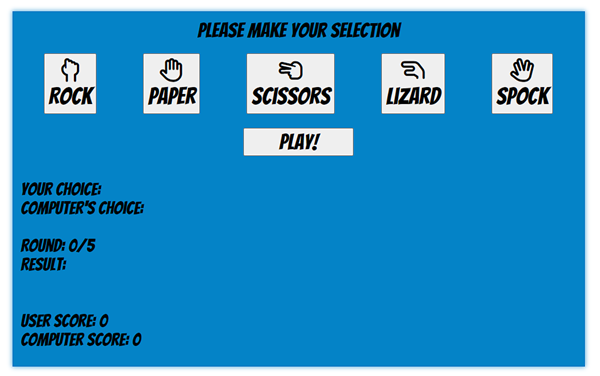
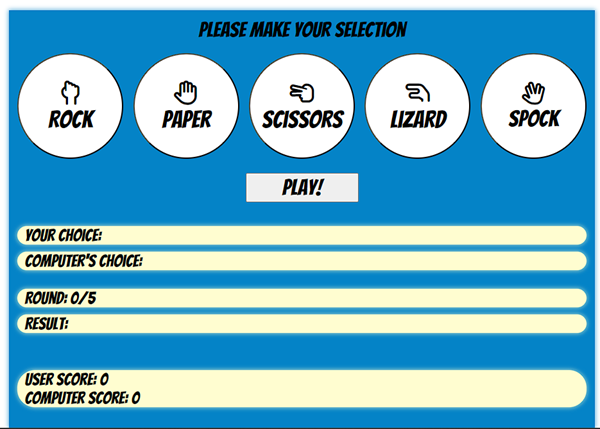
Readme updated and finalised

diff --git a/README.md b/README.md
@@ -66,6 +66,27 @@ The target audience for this game includes:
 
 By targeting a broad yet focused audience, this game has the potential to attract a wide range of players looking for a quick and engaging experience!
 
+## Design Wireframes
+
+ My first job was to design my website to get the right look and layout, making the site with the mobile first method in developing. I used wireframes to plot a general layout both on Mobile first and being responsive on bigger screens, using media queries.
+
+ * below are the designs I created as a basis for creating the game.
+
+  - Mobile phone screens.
+
+ ![Mobile Wireframes image](assets/images/p2-wireframes-small-screen.webp)
+
+  - Larger screens
+
+ ![Large Screens Wireframes](assets/images/p2-wireframe-design.webp)
+
+   - During the development process of my website I found a few snags with the styling. The first one being buttons were to small and hard to read, so I rounded them 
+     gave then an interactive border, and centred them on the page as before.
+
+   - The how to button Was moved to the right Aligned over the game play area.
+
+   - The Reset button, was added during the development process, in order to give the user more control over the game, and increase interactivity.
+
 ## Features
 
 * **Core Website Design:**
@@ -75,6 +96,8 @@ By targeting a broad yet focused audience, this game has the potential to attrac
   - Responsive features like button hover effects and cursor changes were added to give the website more appeal.
   - How to Play modal was used to keep the main website clutter-free, allowing the user to play a game that's easier on the eye, improving UX.
   - Game play buttons were given the same styling to improve the site look and overall UX.
+
+
 
 * **![Screenshot of the website's homepage on different devices](favicon.ico) Favicon**
   - I used Windows Paint to crop the logo down, as it was bright and matched the logo inside for continuity.
@@ -106,16 +129,32 @@ By targeting a broad yet focused audience, this game has the potential to attrac
 
   - The background was chosen to match the favicon, logo center, and heading for UX.
   - Game selection buttons were made large and given FontAwesome icons to enhance UX.
-  - A Play button was added to increase user interactivity with the same style theme as the options button above it.
+  - A play button was added to increase user interactivity with the same style theme as the options button above it.
+  - The results area were given cream back-grounds to match the logo back ground. creating a good contrast to the text that appears over it.
+  - The Error message "Please make a selection" was made red to attract attention, so the user knew what to do.
 
 ### Future Features
-    - The potential to add Graphics instead of writing
-    - Add sound to create an auditory back ground atmosphere with responsive sounds on buttons and also on the results given back.
-    - Make this website part of a larger game website alongside other games
+   - The potential to add Graphics instead of writing
+   - Add sound to create an auditory back ground atmosphere with responsive sounds on buttons and also on the results given back.
+   - Make this website part of a larger game website alongside other games
 
-    The above should positively increase the overall User Experience.
+   The above should positively increase the overall User Experience.
 
-  ## Testing 
+  ## Manuel Testing 
+
+  I spent alot of time during and after conducting manuel testing, to ensure that the piece of code I was working on was working as intended.
+  and making sure this site functitions properly as a whole. 
+
+* Some of the testing I did is listed below.
+
+ - Make sure the Lay out works as intended and gives a good lighthouse and wave score. 
+ - Make sure the game play works as intended and there are no bugs.
+ - Ensure that the layout is in good Contrast, and adjust accordingly, recording the changes with a commit message.
+ - Make sure the site is responsive.
+ - Create Git commits at every stage.
+ - Asked friends and family to play and test it out and give me feed back.
+ - and that the whole site meets a good standard of UX, ensuring a theme that is relivent, consistant, and user desirable.
+ 
 
   **Lighthouse**
 
@@ -126,6 +165,13 @@ By targeting a broad yet focused audience, this game has the potential to attrac
   - I tested my site on Chrome, Safari and Firefox, and it works well on these browsers.
   - I tested all buttons on the page to make sure they were working, and worked as they should.
   - I tested that the game works, and resets correctly, ready to start another round.
+
+**Wave**
+
+I ran my site through the [Wave](https://wave.webaim.org/) creating the following summarys, and passes all major tests.
+
+![Wave Summary](assets/images/wave-summary.webp) ![Wave Contrast](assets/images/wave-contrast.webp)
+
 
 **HTML**
   - HTML code passes the W3C code check
@@ -143,8 +189,7 @@ By targeting a broad yet focused audience, this game has the potential to attrac
  ![Game Logo](assets/images/p2-js-script-checker.webp)
 
 
- ## Bugs
-
+* Some of the Bugs
    - Firstly I created a second page to create a how to section, but with my mentor's inspiration I decided to change to a model, I used the W3C page to learn how to 
      do this, and I feel this is a great was to convey the relevent information to the user, and 
    - Following the the first game and after resetting I found that the game didn't run as it did before, the scores were adding wrong and and not resetting correctly.
@@ -153,6 +198,8 @@ By targeting a broad yet focused audience, this game has the potential to attrac
      jshint.com at periodic points, making sure the code was right. which now show clear, and no faults found.
    - I used the Google Developer Tools to test and iron out little kinks in my HTML and CSS code.
    - During the development process, my Mentor advice was not to use Alerts, so they were removed and replaced with messages in the game play display area.
+   - When making the text red for the "make a selection please" if you press play with out making a selection It didnt change back to black when you did press play, 
+     so I added code to the reset function and the track users selected choice section to rectify this.
    
    ## Deployment
 
@@ -177,25 +224,6 @@ By targeting a broad yet focused audience, this game has the potential to attrac
   - To set up my working IDE I logged in to Gitpod and navigated to the workspaces section
   - Clicking on new workspace and in putting the repository URL,
   - The IDE was created.
-
-## Design Wireframes
-
- - Making the site I used the mobile first method in developing. I used wireframes to plot a general layout both on Mobile first and being responsive on bigger screens.
-
-  - Mobile phone screens.
-
- ![Mobile Wireframes image](assets/images/p2-wireframes-small-screen.webp)
-
-  - Larger screens
-
- ![Large Screens Wireframes](assets/images/p2-wireframe-design.webp)
-
-   - During the development process of my website I found a few snags with the styling. The first one being buttons were to small and hard to read, so I rounded them 
-     gave then an interactive border, and centred them on the page as before.
-
-   - The how to button Was moved to the right Aligned over the game play area.
-
-   - The Reset button, was added during the development process, in order to give the user more control over the game, and increase interactivity.
 
    ## Credits
 
